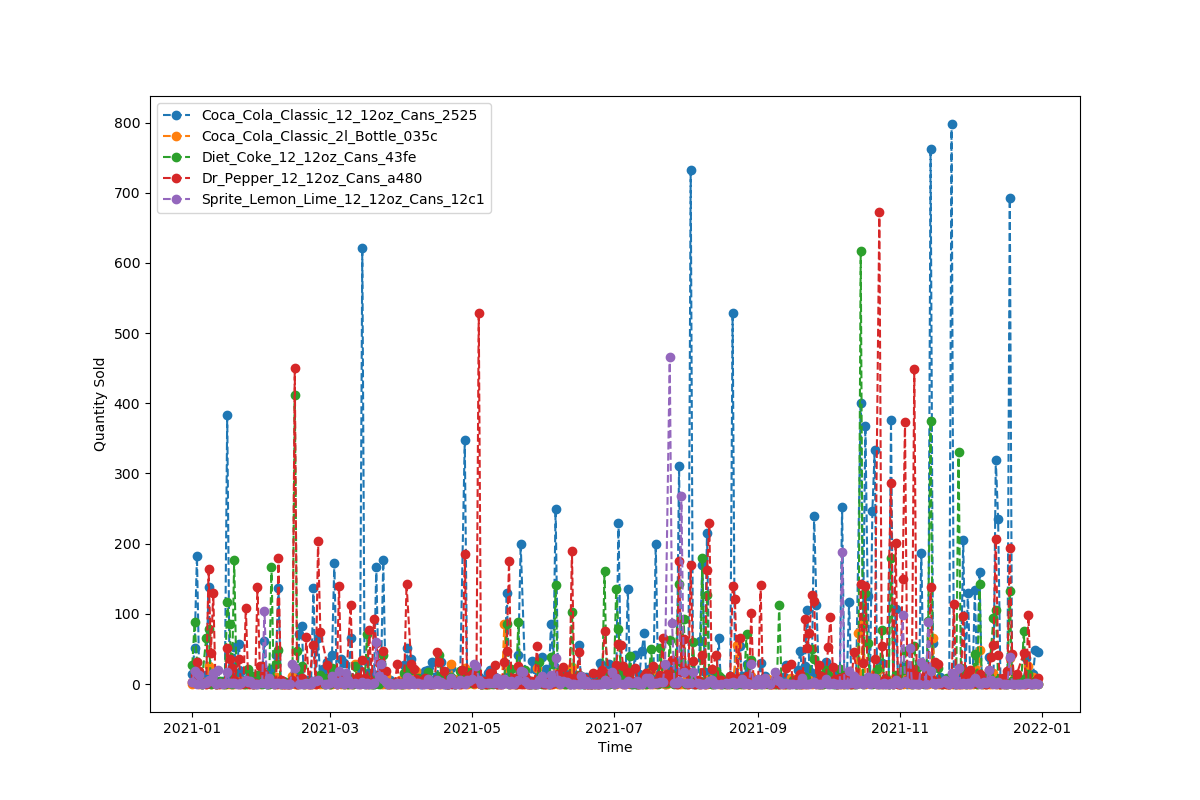
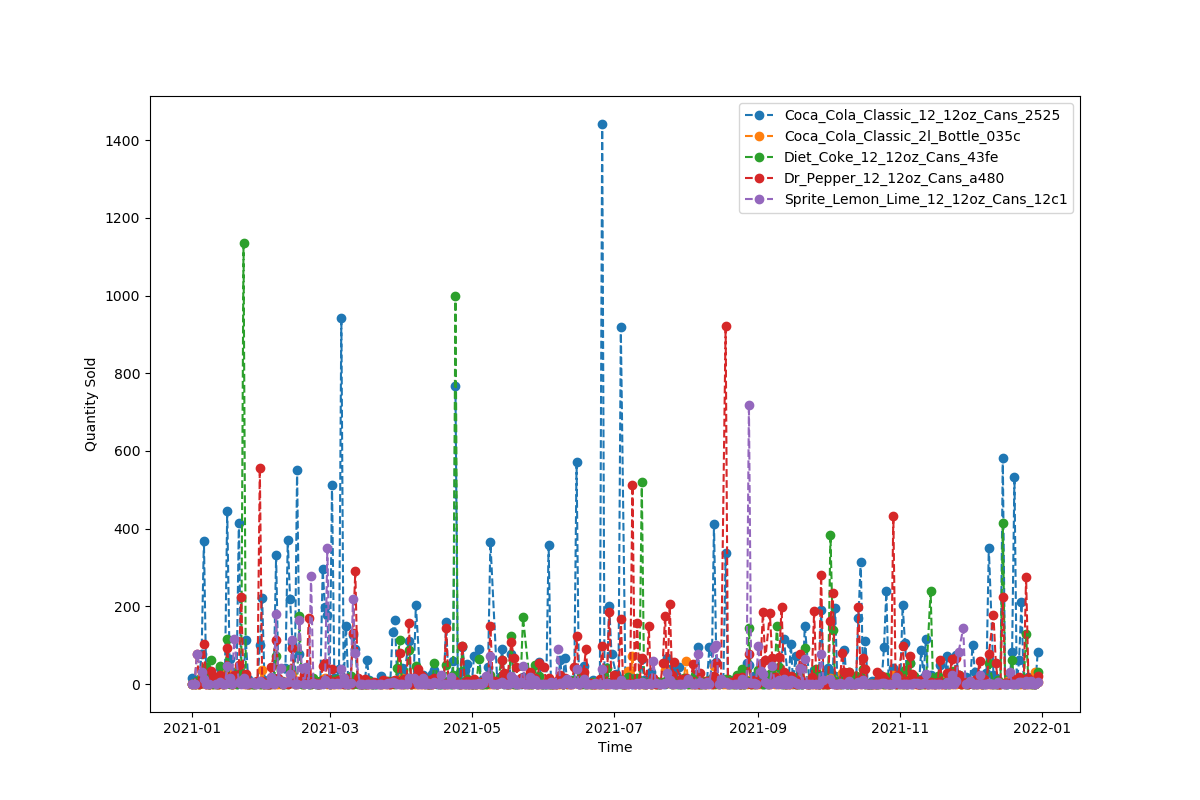
add display location type

diff --git a/sim.py b/sim.py
@@ -1,18 +1,19 @@
 import numpy as np
 import datetime
 
-from prior import Prior, Params
+from prior import Prior, Params, DisplayLocations
 from buffer import Buffer
 
 class Simulator(object):
     dt_format = "%Y-%m-%d"
 
-    def __init__(self, n_displays, start_date, end_date):
-        self.n_displays = n_displays
+    def __init__(self, start_date, end_date):
         self.start_date = datetime.datetime.strptime(start_date, self.dt_format)
         self.end_date = datetime.datetime.strptime(end_date, self.dt_format)
         self.n_days = (self.end_date - self.start_date).days
         self.products = np.array(list(Params.products.keys()))
+        self.n_displays = len(Params.displays)
+
         self.product_idx = {}
         for i, p in enumerate(self.products):
             self.product_idx[p] = i
@@ -30,13 +31,18 @@ class Simulator(object):
         x = np.zeros(len(self.products))
         x[self.product_idx[product]] = 1.0
         return x
+    def _disp_loc_features(self, disp_loc_type):
+        x = np.zeros(len(DisplayLocations.idx_map.value))
+        x[DisplayLocations.idx_map.value[disp_loc_type.value]] = 1.0
+        return x
 
-    def featurize(self, day_of_week, product, price, disp_prod_val, disp_val):
+    def featurize(self, day_of_week, product, price, disp_prod_val, disp_val, disp_loc_type):
         x_day = self._day_of_week_features(day_of_week)
         x_product = self._product_features(product)
         x_price = x_product*price
+        x_disp_loc = self._disp_loc_features(disp_loc_type)
 
-        return np.concatenate([x_day, x_product, x_price, disp_prod_val, [disp_val]])
+        return np.concatenate([x_day, x_product, x_price, disp_prod_val, [disp_val], x_disp_loc])
 
     def _stringify_list(self, l):
         l = [str(x) for x in l]
@@ -54,6 +60,7 @@ class Simulator(object):
 
 
             for d in range(self.n_displays):
+                disp_loc = Params.displays[d]["loc"]
                 product_disp_set, one_hot = self.prior.gen_product_set(self.products)
                 prod_disp_val = self.prior.gen_display_prod_value(one_hot)
                 disp_spatial_val = self.prior.spatial_effects[d]
@@ -63,7 +70,8 @@ class Simulator(object):
                         product=p,
                         price=prices[p],
                         disp_prod_val=prod_disp_val,
-                        disp_val=disp_spatial_val
+                        disp_val=disp_spatial_val,
+                        disp_loc_type=disp_loc
                     )
                     q, lmbda = self.prior.gen_quantity(x_t)
                     self.buffer.add(
@@ -73,6 +81,7 @@ class Simulator(object):
                             p,
                             d,
                             prices[p],
+                            disp_loc.value,
                             self._stringify_list(product_disp_set),
                             self._stringify_list(self.prior.params.disp_nbr_map[d])
 
@@ -81,5 +90,5 @@ class Simulator(object):
         self.buffer.to_csv("output.csv")
 
 if __name__ == "__main__":
-    sim = Simulator(3, "2021-01-01", "2021-12-31")
+    sim = Simulator("2021-01-01", "2021-12-31")
     sim.main()

diff --git a/prior.py b/prior.py
@@ -1,4 +1,16 @@
 import numpy as np
+from enum import Enum
+
+class DisplayLocations(Enum):
+    DELI = "deli"
+    ENTRANCE = "entrance"
+    DAIRY = "dairy"
+
+    idx_map = {
+        DELI: 0,
+        ENTRANCE: 1,
+        DAIRY: 2
+    }
 
 class Params(object):
     # [M, T, W, TH, F, Sa, Su]
@@ -30,6 +42,11 @@ class Params(object):
                 "effect": .5
             }
     }
+    displays = {
+        0: {"loc": DisplayLocations.DELI},
+        1: {"loc": DisplayLocations.ENTRANCE},
+        2: {"loc": DisplayLocations.DAIRY}
+    }
     product_cov = np.array(
         [
             [1, 0, 1.5, -0.5, -1],
@@ -47,6 +64,12 @@ class Params(object):
         [0, 1, 1],
         [1, 1, 1]
     ])
+
+    display_loc_effects = {
+        "deli": 0.25,
+        "dairy": -.5,
+        "entrance": 0.5
+    }
 
 
 
@@ -79,14 +102,18 @@ class Params(object):
         x_day = np.array(Params.day_effect)
         x_price = []
         x_product = []
+        x_disp_loc = []
         for product, prod_dta in self.products.items():
             x_price.append(prod_dta["price"])
             x_product.append(prod_dta["effect"])
         x_price = np.array(x_price)
+        for disp, disp_cfg in self.displays.items():
+            x_disp_loc.append(self.display_loc_effects[disp_cfg["loc"].value])
+        x_disp_loc = np.array(x_disp_loc)
         x_prod_cov = [1.0]
         x_disp_val = [1.0]
 
-        return np.concatenate([x_day, x_product, x_price, x_prod_cov, x_disp_val])
+        return np.concatenate([x_day, x_product, x_price, x_prod_cov, x_disp_val, x_disp_loc])
 
 
 

diff --git a/buffer.py b/buffer.py
@@ -10,6 +10,7 @@ class Buffer(object):
             "product",
             "display_id",
             "price",
+            "display_loc",
             "products_on_display",
             "nearby_displays"
         ]
